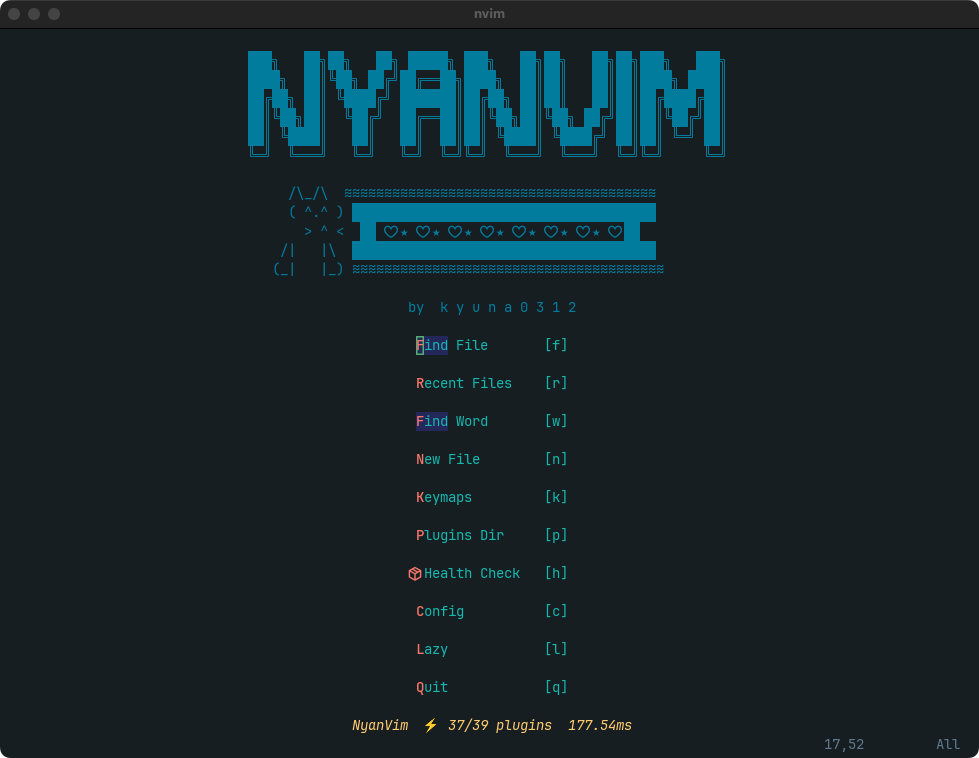
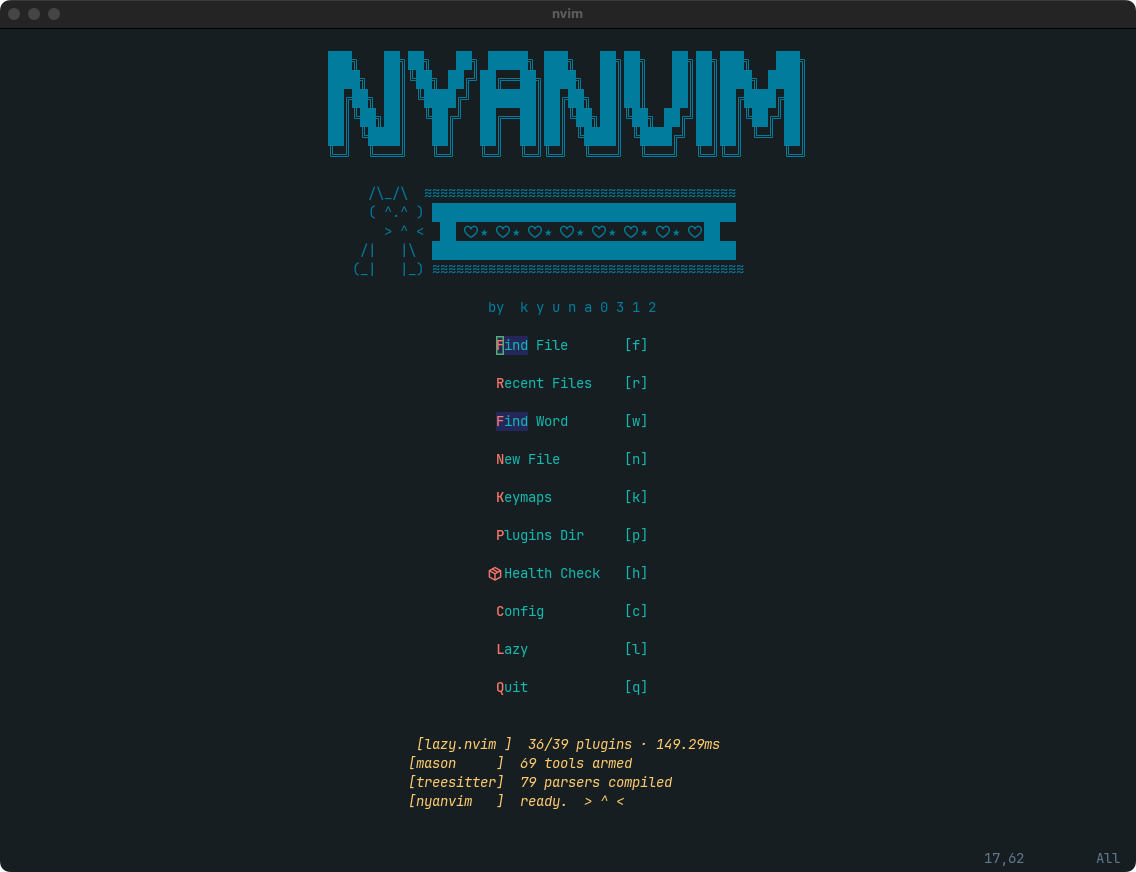
feat(dashboard): boot-log footer with live plugin/tool/parser counts
The footer now mirrors the README's console block: lazy.nvim plugin
stats, mason tool count, compiled treesitter parsers — all read live.
Lines are right-padded so the doom theme's per-line centering keeps
the bracket columns aligned. Dashboard screenshot retaken.

diff --git a/README.md b/README.md
@@ -17,7 +17,7 @@ Organized [craftzdog](https://github.com/craftzdog/dotfiles-public)-style: a thi
 ```console
 $ nvim
 [lazy.nvim ]  39 plugins · 177ms
-[mason     ]  41 language servers armed
+[mason     ]  69 tools armed
 [treesitter]  79 parsers compiled
 [nyanvim   ]  ready.  > ^ <
 ```
